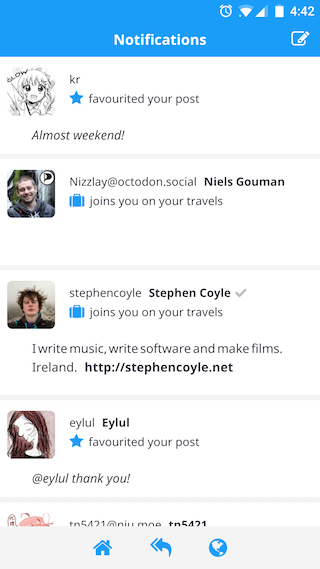
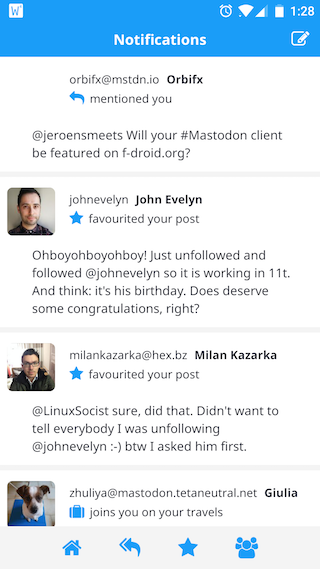
updated screenshots for App and Play store, added Play Store link to README.

diff --git a/README.md b/README.md
@@ -4,15 +4,11 @@
 
 I connect to Mastodon on [mastodon.social](https://mastodon.social/), but everyone can start her own server. 11t lets you use any Mastodon instance.
 
-### I hear there's a beta test? ###
-
-You are absolutely right! I'm building this app from scratch, so please have some patience.
-
 ## iOS ##
-Signups for iOS are closed for now. Please hang on, the first public version is right around the corner.
+App is under review by Apple.
 
 ## Android ##
-For Android, you can [visit this link](https://play.google.com/apps/testing/com.jeroensmeets.mastodon) on your mobile.
+The app is [in the Play Store](https://play.google.com/store/apps/details?id=com.jeroensmeets.mastodon).
 
 ### How do I pronounce 11t? ###
 
